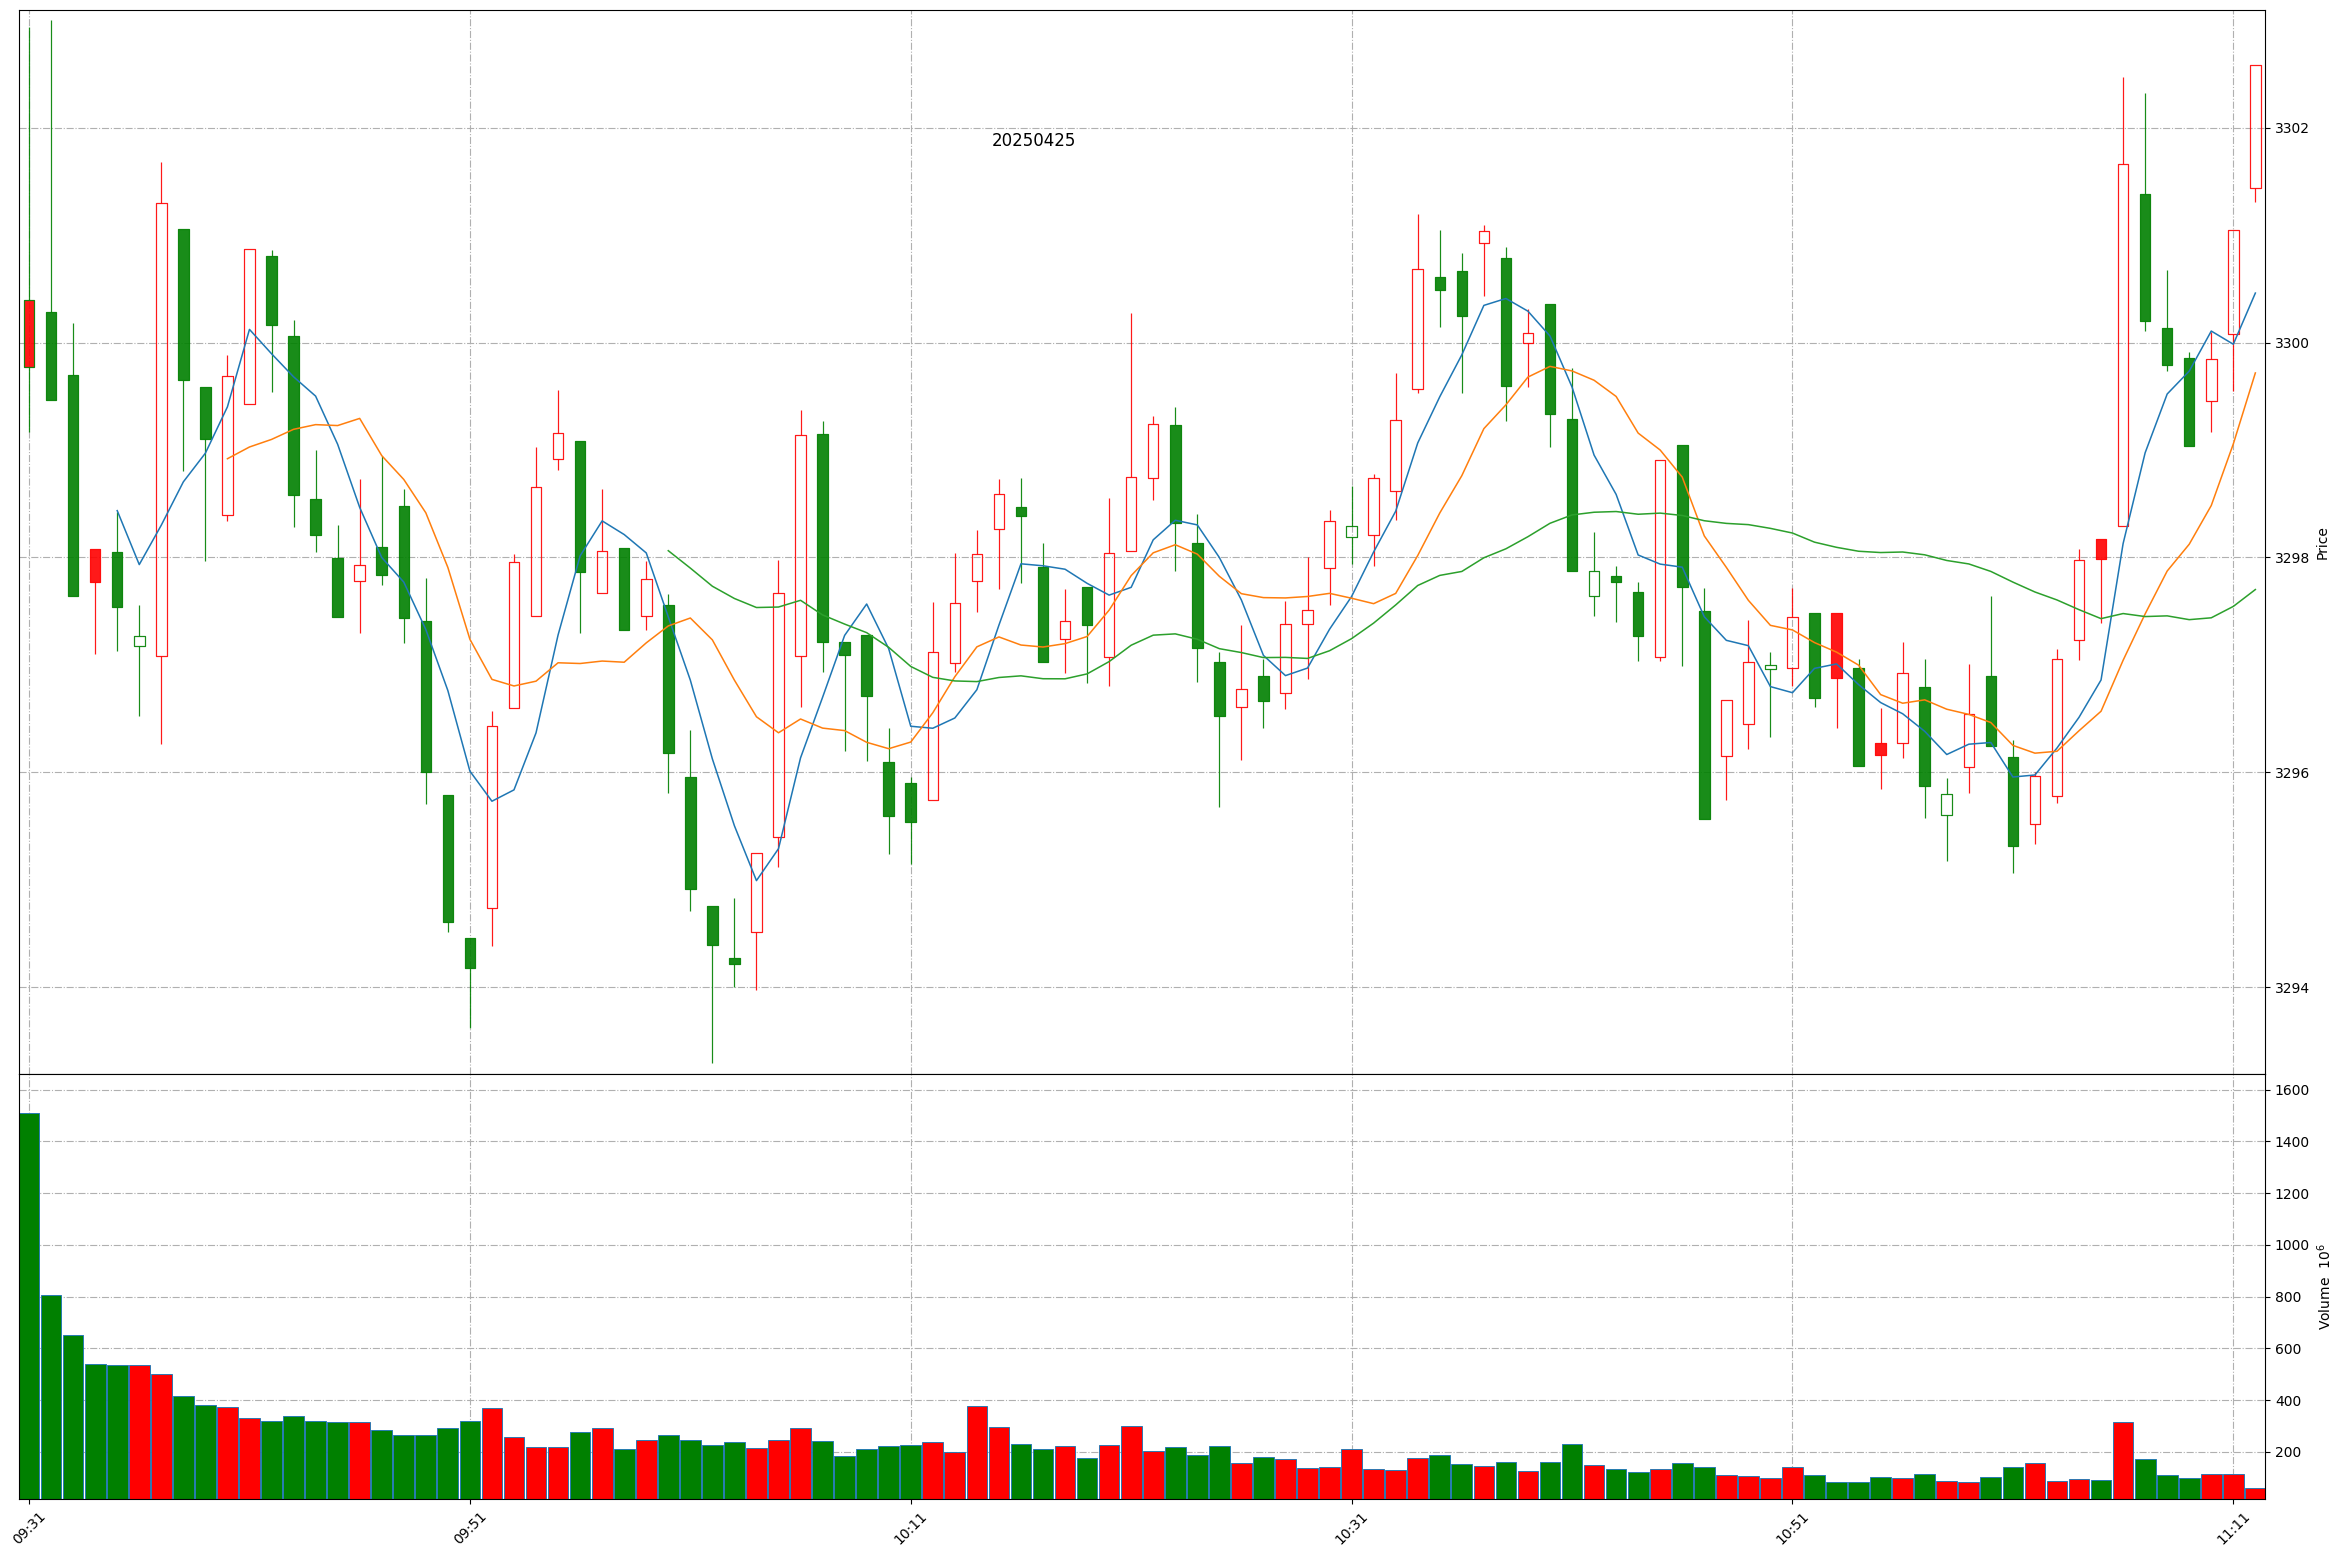
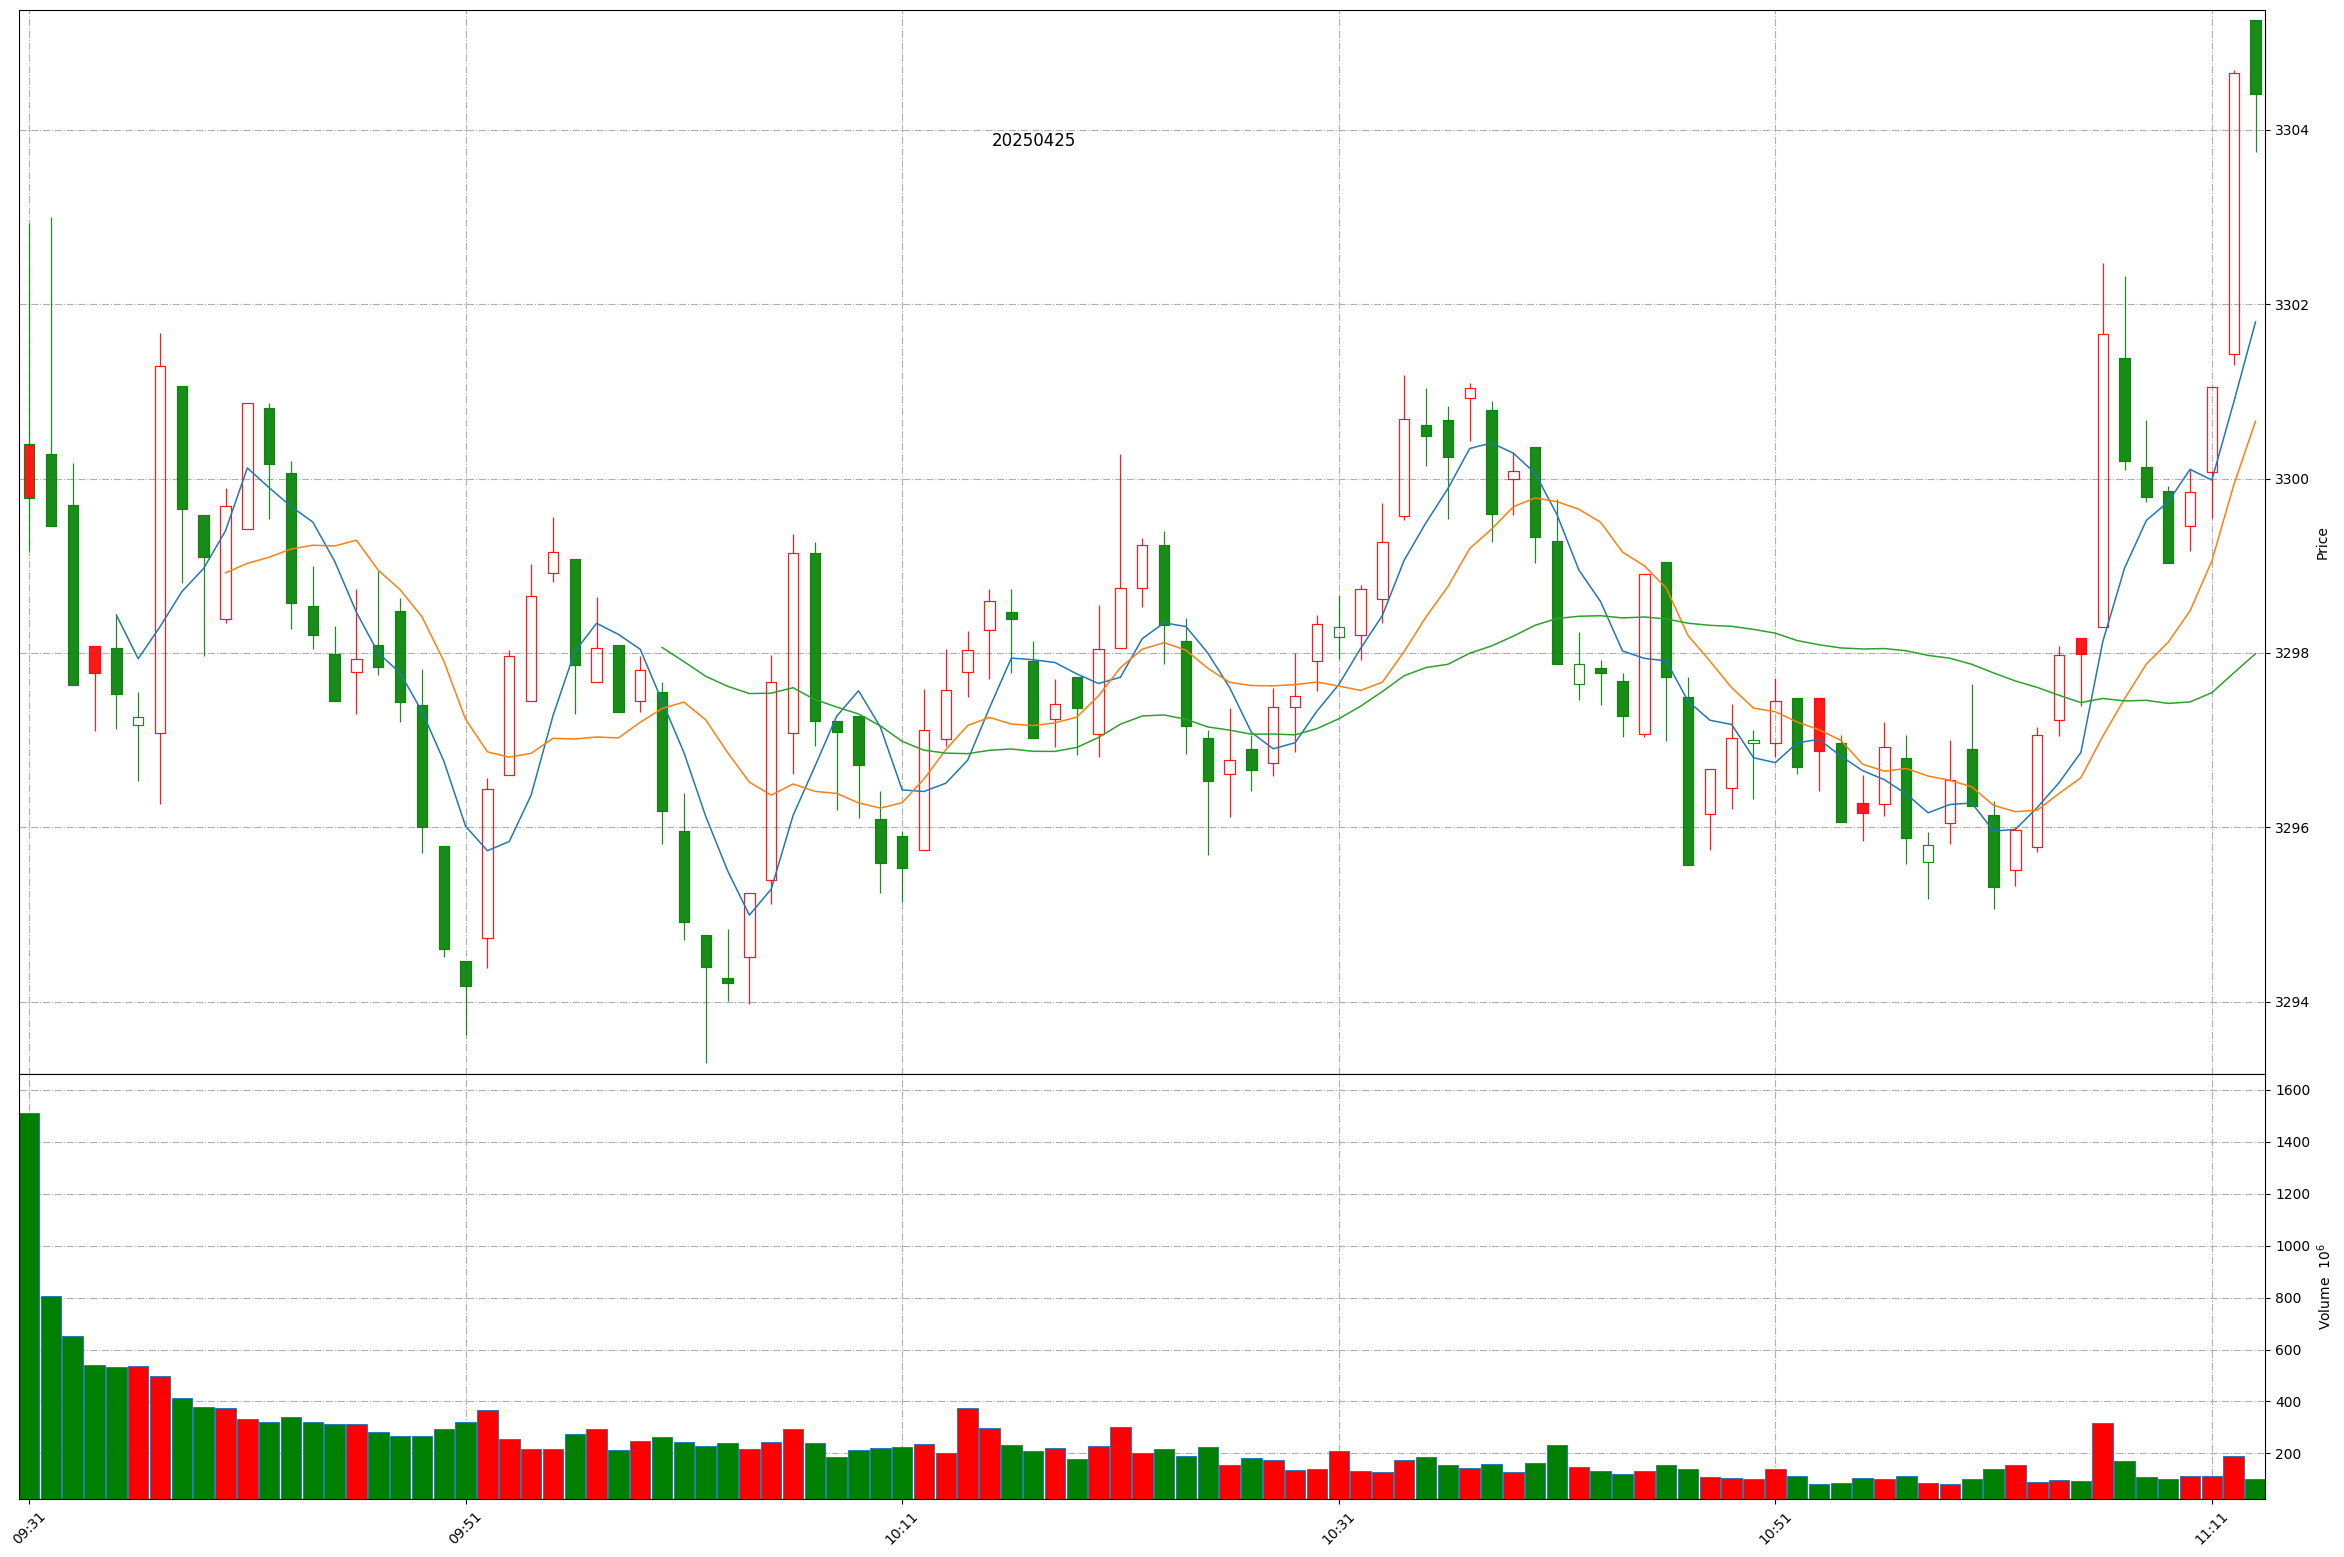
Github action update at 2025-04-25 11:12:51.

diff --git a/README.md b/README.md
@@ -1,11 +1,11 @@
 
 # Daily-A-share-market-quotes 每日 A 股指数（5min 更新）- 20250425
 
-### 上证指数 20250425 11:11
+### 上证指数 20250425 11:12
 ![](./fig/2025/4/20250425-sh000001.png)
 
-### 深证成指 20250425 11:11
+### 深证成指 20250425 11:12
 ![](./fig/2025/4/20250425-sz399001.png)
 
-### 北证50 20250425 11:11
+### 北证50 20250425 11:12
 ![](./fig/2025/4/20250425-bj899050.png)
